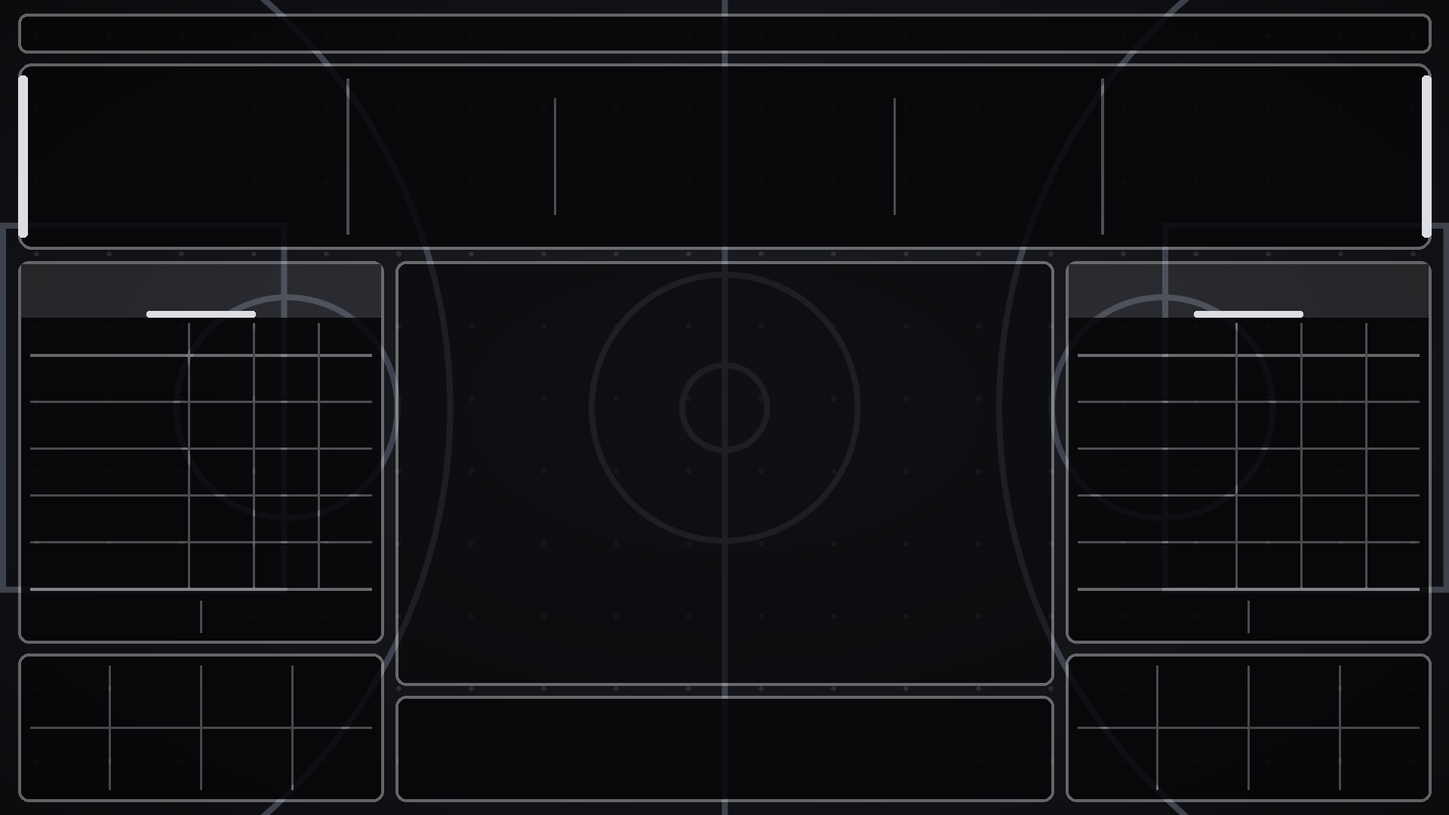
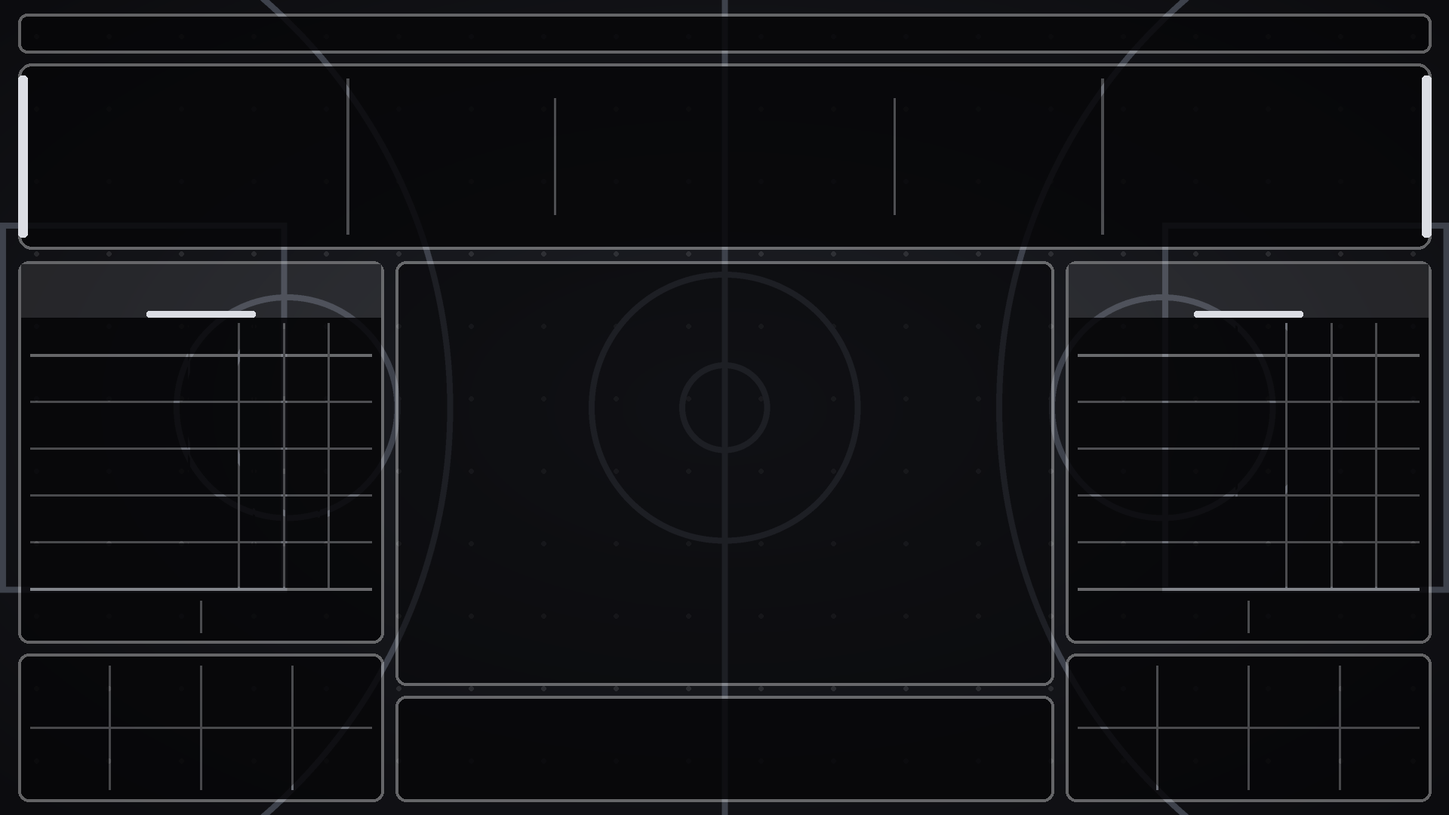
Tiempos fuera por liga, nombres completos en pantalla y plantilla ajustada
- Duración de tiempo fuera seleccionable (15/30/60/75/90 s u otra en Ajustes; ms por API)
- Botones -/+ de tiempos disponibles en la vista de Jugada
- Recarga automática de tiempos: inicio, 3er periodo y cada OT (FIBA 2/3/1, NBA 7/0/2)
- Faltas del jugador en un indicador fijo junto al nombre
- Columnas PTS/REB/AST más estrechas y letra que se ajusta para ver el nombre completo
- Plantilla LED con las líneas de la tabla en las nuevas columnas
- Rótulo de anotación (popup) oculto en el panel

diff --git a/display.html b/display.html
@@ -62,15 +62,23 @@
   td{height:62px;border:2px solid #1b4bff;text-align:center;font-size:40px;font-variant-numeric:tabular-nums}
   td.nm{text-align:left;padding-left:10px;font-size:28px;white-space:nowrap;overflow:hidden}
   td.pn{line-height:1;padding:0}
-  td.pn b{display:block;font-size:34px;line-height:36px}
-  td.pn i{display:block;font-style:normal;font-size:16px;line-height:18px;letter-spacing:1px;color:#9db4ff}
-  td.nm sup{font-size:20px;margin-left:5px;opacity:.85;vertical-align:top;position:relative;top:6px}
+  td.pn b{display:block;font-size:30px;line-height:34px}
+  td.pn i{display:block;font-style:normal;font-size:14px;line-height:16px;letter-spacing:0;color:#9db4ff}
+  /* nombre + faltas: el número de faltas tiene su espacio fijo a la derecha; si el nombre es largo se recorta con "…" */
+  td.nm{padding-right:6px}
+  td.nm .nmw{display:flex;align-items:center;gap:6px;min-width:0}
+  td.nm .nmt{flex:1;min-width:0;overflow:hidden;text-overflow:ellipsis;white-space:nowrap}
+  td.nm .nmt.wrap{white-space:normal;text-overflow:clip;line-height:1.02;overflow-wrap:anywhere}
+  td.nm .pf{flex:none;min-width:26px;height:26px;line-height:26px;padding:0 5px;border-radius:13px;font-size:19px;text-align:center;
+    background:rgba(255,255,255,.18);color:#fff;font-variant-numeric:tabular-nums}
+  td.nm.pfw .pf{background:#ffd400;color:#000}
+  td.nm.pfx .pf{background:#ff3b30;color:#fff}
   td.pfw{color:#ffd400}
   td.pfx{color:#ff3b30}
-  /* columnas de la plantilla: #+jugador 210px, PTS 86, REB 86, AST 71 */
-  th.nm{width:33.4%}
-  th.pn{width:13%}
-  th.c{width:19%}
+  /* columnas: # 10%, PTS/REB/AST 13% cada una, el nombre se queda con el resto (~51%) */
+  th.pn{width:10%}
+  th.c{width:13%;font-size:22px}
+  td.c{font-size:34px}
   .foot{display:grid;grid-template-columns:1fr 1fr;flex:1;min-height:0;border-top:3px solid #fff}
   .foot div{display:flex;align-items:center;justify-content:center;gap:16px;font-size:36px}
   .foot div.bonus{background:#c8102e;animation:bn 1s steps(2) infinite}
@@ -161,14 +169,14 @@ function panel(t) {
   if (set.sortByPts !== false) on.sort((a, b) => b.pts - a.pts);   // orden estable: con los mismos puntos conserva el orden de la plantilla
   while (on.length < 5) on.push(null);
   const rows = on.map((p) => {
-    if (!p) return '<tr><td class="pn"></td><td class="nm"></td><td></td><td></td><td></td></tr>';
+    if (!p) return '<tr><td class="pn"></td><td class="nm"></td><td class="c"></td><td class="c"></td><td class="c"></td></tr>';
     const cls = p.pf >= lim ? 'pfx' : (p.pf > 0 && p.pf >= lim - 1 ? 'pfw' : '');
-    const sup = p.pf > 0 ? `<sup>${p.pf}</sup>` : '';
-    return `<tr><td class="pn ${cls}"><b>${esc(p.n || '')}</b><i>${esc(p.pos || '')}</i></td><td class="nm ${cls}">${esc(p.name)}${sup}</td><td>${p.pts}</td><td>${p.reb}</td><td>${p.ast}</td></tr>`;
+    const pf = p.pf > 0 ? `<span class="pf">${p.pf}</span>` : '';
+    return `<tr><td class="pn ${cls}"><b>${esc(p.n || '')}</b><i>${esc(p.pos || '')}</i></td><td class="nm ${cls}"><div class="nmw"><span class="nmt">${esc(p.name)}</span>${pf}</div></td><td class="c">${p.pts}</td><td class="c">${p.reb}</td><td class="c">${p.ast}</td></tr>`;
   }).join('');
   const bonus = t.fouls >= (set.foulBonus || 4);
   return `<h2>${esc(t.name)}</h2>
-    <table><tr><th class="pn">#</th><th class="nm">JUGADOR</th><th class="c">PTS</th><th class="c">REB</th><th>AST</th></tr>${rows}</table>
+    <table><tr><th class="pn">#</th><th class="nm">JUGADOR</th><th class="c">PTS</th><th class="c">REB</th><th class="c">AST</th></tr>${rows}</table>
     <div class="foot"><div class="${bonus ? 'bonus' : ''}">${bonus ? 'BONUS' : 'FALTAS'} <b>${t.fouls}</b></div><div>TIEMPOS <b>${t.timeouts}</b></div></div>`;
 }
 
@@ -231,6 +239,23 @@ function qsHTML(k) {
   return h;
 }
 
+// ---- nombres completos: la letra se achica hasta que el nombre cabe; si no cabe en una línea, pasa a dos ----
+function fitNames() {
+  for (const el of document.querySelectorAll('td.nm .nmt')) {
+    el.classList.remove('wrap');
+    let size = 28; el.style.fontSize = size + 'px';
+    while (el.scrollWidth > el.clientWidth && size > 18) el.style.fontSize = --size + 'px';
+    if (el.scrollWidth <= el.clientWidth) continue;
+    el.classList.add('wrap');                      // dos líneas dentro de la fila de 62 px
+    size = 24; el.style.fontSize = size + 'px';
+    while ((el.scrollHeight > 56 || el.scrollWidth > el.clientWidth) && size > 14) el.style.fontSize = --size + 'px';
+  }
+  for (const h of document.querySelectorAll('.panel h2')) {   // nombre del equipo en la cabecera del panel
+    let size = 56; h.style.fontSize = size + 'px';
+    while (h.scrollWidth > h.clientWidth && size > 28) h.style.fontSize = --size + 'px';
+  }
+}
+
 const LAYER = new URLSearchParams(location.search).get('layer') || '';   // '' | base | stats
 function render() {
   if (!S) return;
@@ -255,6 +280,7 @@ function render() {
   $('hqs').innerHTML = qsHTML('home'); $('aqs').innerHTML = qsHTML('away');
   $('hpanel').innerHTML = panel(S.teams.home); $('apanel').innerHTML = panel(S.teams.away);
   bottomBox($('hnote'), S.teams.home); bottomBox($('anote'), S.teams.away);
+  fitNames();
   $('phome').classList.toggle('on', S.possession === 'home');
   $('paway').classList.toggle('on', S.possession === 'away');
   $('period').textContent = S.timer.kind ? S.timer.label : S.final ? 'FINAL' : label;

diff --git a/scoreboard/public/display.html b/scoreboard/public/display.html
@@ -62,15 +62,23 @@
   td{height:62px;border:2px solid #1b4bff;text-align:center;font-size:40px;font-variant-numeric:tabular-nums}
   td.nm{text-align:left;padding-left:10px;font-size:28px;white-space:nowrap;overflow:hidden}
   td.pn{line-height:1;padding:0}
-  td.pn b{display:block;font-size:34px;line-height:36px}
-  td.pn i{display:block;font-style:normal;font-size:16px;line-height:18px;letter-spacing:1px;color:#9db4ff}
-  td.nm sup{font-size:20px;margin-left:5px;opacity:.85;vertical-align:top;position:relative;top:6px}
+  td.pn b{display:block;font-size:30px;line-height:34px}
+  td.pn i{display:block;font-style:normal;font-size:14px;line-height:16px;letter-spacing:0;color:#9db4ff}
+  /* nombre + faltas: el número de faltas tiene su espacio fijo a la derecha; si el nombre es largo se recorta con "…" */
+  td.nm{padding-right:6px}
+  td.nm .nmw{display:flex;align-items:center;gap:6px;min-width:0}
+  td.nm .nmt{flex:1;min-width:0;overflow:hidden;text-overflow:ellipsis;white-space:nowrap}
+  td.nm .nmt.wrap{white-space:normal;text-overflow:clip;line-height:1.02;overflow-wrap:anywhere}
+  td.nm .pf{flex:none;min-width:26px;height:26px;line-height:26px;padding:0 5px;border-radius:13px;font-size:19px;text-align:center;
+    background:rgba(255,255,255,.18);color:#fff;font-variant-numeric:tabular-nums}
+  td.nm.pfw .pf{background:#ffd400;color:#000}
+  td.nm.pfx .pf{background:#ff3b30;color:#fff}
   td.pfw{color:#ffd400}
   td.pfx{color:#ff3b30}
-  /* columnas de la plantilla: #+jugador 210px, PTS 86, REB 86, AST 71 */
-  th.nm{width:33.4%}
-  th.pn{width:13%}
-  th.c{width:19%}
+  /* columnas: # 10%, PTS/REB/AST 13% cada una, el nombre se queda con el resto (~51%) */
+  th.pn{width:10%}
+  th.c{width:13%;font-size:22px}
+  td.c{font-size:34px}
   .foot{display:grid;grid-template-columns:1fr 1fr;flex:1;min-height:0;border-top:3px solid #fff}
   .foot div{display:flex;align-items:center;justify-content:center;gap:16px;font-size:36px}
   .foot div.bonus{background:#c8102e;animation:bn 1s steps(2) infinite}
@@ -161,14 +169,14 @@ function panel(t) {
   if (set.sortByPts !== false) on.sort((a, b) => b.pts - a.pts);   // orden estable: con los mismos puntos conserva el orden de la plantilla
   while (on.length < 5) on.push(null);
   const rows = on.map((p) => {
-    if (!p) return '<tr><td class="pn"></td><td class="nm"></td><td></td><td></td><td></td></tr>';
+    if (!p) return '<tr><td class="pn"></td><td class="nm"></td><td class="c"></td><td class="c"></td><td class="c"></td></tr>';
     const cls = p.pf >= lim ? 'pfx' : (p.pf > 0 && p.pf >= lim - 1 ? 'pfw' : '');
-    const sup = p.pf > 0 ? `<sup>${p.pf}</sup>` : '';
-    return `<tr><td class="pn ${cls}"><b>${esc(p.n || '')}</b><i>${esc(p.pos || '')}</i></td><td class="nm ${cls}">${esc(p.name)}${sup}</td><td>${p.pts}</td><td>${p.reb}</td><td>${p.ast}</td></tr>`;
+    const pf = p.pf > 0 ? `<span class="pf">${p.pf}</span>` : '';
+    return `<tr><td class="pn ${cls}"><b>${esc(p.n || '')}</b><i>${esc(p.pos || '')}</i></td><td class="nm ${cls}"><div class="nmw"><span class="nmt">${esc(p.name)}</span>${pf}</div></td><td class="c">${p.pts}</td><td class="c">${p.reb}</td><td class="c">${p.ast}</td></tr>`;
   }).join('');
   const bonus = t.fouls >= (set.foulBonus || 4);
   return `<h2>${esc(t.name)}</h2>
-    <table><tr><th class="pn">#</th><th class="nm">JUGADOR</th><th class="c">PTS</th><th class="c">REB</th><th>AST</th></tr>${rows}</table>
+    <table><tr><th class="pn">#</th><th class="nm">JUGADOR</th><th class="c">PTS</th><th class="c">REB</th><th class="c">AST</th></tr>${rows}</table>
     <div class="foot"><div class="${bonus ? 'bonus' : ''}">${bonus ? 'BONUS' : 'FALTAS'} <b>${t.fouls}</b></div><div>TIEMPOS <b>${t.timeouts}</b></div></div>`;
 }
 
@@ -231,6 +239,23 @@ function qsHTML(k) {
   return h;
 }
 
+// ---- nombres completos: la letra se achica hasta que el nombre cabe; si no cabe en una línea, pasa a dos ----
+function fitNames() {
+  for (const el of document.querySelectorAll('td.nm .nmt')) {
+    el.classList.remove('wrap');
+    let size = 28; el.style.fontSize = size + 'px';
+    while (el.scrollWidth > el.clientWidth && size > 18) el.style.fontSize = --size + 'px';
+    if (el.scrollWidth <= el.clientWidth) continue;
+    el.classList.add('wrap');                      // dos líneas dentro de la fila de 62 px
+    size = 24; el.style.fontSize = size + 'px';
+    while ((el.scrollHeight > 56 || el.scrollWidth > el.clientWidth) && size > 14) el.style.fontSize = --size + 'px';
+  }
+  for (const h of document.querySelectorAll('.panel h2')) {   // nombre del equipo en la cabecera del panel
+    let size = 56; h.style.fontSize = size + 'px';
+    while (h.scrollWidth > h.clientWidth && size > 28) h.style.fontSize = --size + 'px';
+  }
+}
+
 const LAYER = new URLSearchParams(location.search).get('layer') || '';   // '' | base | stats
 function render() {
   if (!S) return;
@@ -255,6 +280,7 @@ function render() {
   $('hqs').innerHTML = qsHTML('home'); $('aqs').innerHTML = qsHTML('away');
   $('hpanel').innerHTML = panel(S.teams.home); $('apanel').innerHTML = panel(S.teams.away);
   bottomBox($('hnote'), S.teams.home); bottomBox($('anote'), S.teams.away);
+  fitNames();
   $('phome').classList.toggle('on', S.possession === 'home');
   $('paway').classList.toggle('on', S.possession === 'away');
   $('period').textContent = S.timer.kind ? S.timer.label : S.final ? 'FINAL' : label;

diff --git a/control.html b/control.html
@@ -83,7 +83,16 @@
   <div class="row" style="margin-top:8px">
     <span>Tiempo fuera:</span>
     <button class="big" data-c='{"a":"timeoutStart","team":"home"}'>Local (<b data-bind="teams.home.timeouts"></b>)</button>
+    <button class="sm" title="Quitar un tiempo al local" data-c='{"a":"inc","path":"teams.home.timeouts","by":-1}'>−</button>
+    <button class="sm" title="Devolver un tiempo al local" data-c='{"a":"inc","path":"teams.home.timeouts","by":1}'>+</button>
     <button class="big" data-c='{"a":"timeoutStart","team":"away"}'>Visitante (<b data-bind="teams.away.timeouts"></b>)</button>
+    <button class="sm" title="Quitar un tiempo al visitante" data-c='{"a":"inc","path":"teams.away.timeouts","by":-1}'>−</button>
+    <button class="sm" title="Devolver un tiempo al visitante" data-c='{"a":"inc","path":"teams.away.timeouts","by":1}'>+</button>
+    <label style="margin:0">Duración
+      <select data-path="settings.timeoutMs" data-type="sec" title="Duración del próximo tiempo fuera">
+        <option value="15">15 s</option><option value="30">30 s</option><option value="60">60 s</option><option value="75">75 s</option><option value="90">90 s</option>
+      </select>
+    </label>
     <span style="margin-left:12px">Descanso:</span>
     <button data-c='{"a":"breakStart","kind":"q"}'>Entre periodos</button>
     <button data-c='{"a":"breakStart","kind":"half"}'>Medio tiempo</button>
@@ -110,7 +119,8 @@
   </div>
 </section>
 
-<section class="wide" data-rol="jugada">
+<!-- rótulo de anotación oculto (no se usa); para volver a mostrarlo quita "hidden" y data-off -->
+<section class="wide" data-rol="jugada" data-off hidden>
   <h3>Rótulo de anotación (popup.html)</h3>
   <div class="row">
     <div style="width:90px"><label>Texto grande</label><input type="text" id="p1" value="+3"></div>
@@ -172,7 +182,9 @@
     <div><label>Tiempo fuera (segundos)</label><input type="number" data-path="settings.timeoutMs" data-type="sec"></div>
     <div><label>Descanso entre periodos (min)</label><input type="number" data-path="settings.breakMs" data-type="min"></div>
     <div><label>Medio tiempo (min)</label><input type="number" data-path="settings.halfMs" data-type="min"></div>
-    <div><label>Duración del rótulo (seg)</label><input type="number" data-path="settings.popupMs" data-type="sec"></div>
+    <div><label>Tiempos fuera al empezar el juego (FIBA 2, NBA 7)</label><input type="number" min="1" data-path="settings.toFirst" data-type="int"></div>
+    <div><label>Tiempos fuera al empezar el 3er periodo (FIBA 3, NBA 0 = siguen los que queden)</label><input type="number" min="0" data-path="settings.toSecond" data-type="int"></div>
+    <div><label>Tiempos fuera en cada tiempo extra (FIBA 1, NBA 2)</label><input type="number" min="0" data-path="settings.toOT" data-type="int"></div>
   </div>
   <div class="row" style="margin-top:6px">
     <label style="margin:0"><input type="checkbox" data-path="settings.linkShot" data-type="bool"> 24s ligado al reloj del juego</label>
@@ -348,7 +360,11 @@ function paint() {
     const v = get(el.dataset.path); const ty = el.dataset.type;
     if (ty === 'bool') el.checked = !!v;
     else if (ty === 'min') el.value = v / 60000;
-    else if (ty === 'sec') el.value = v / 1000;
+    else if (ty === 'sec') {
+      // en un selector, si el valor es personalizado (p. ej. 45 s desde Ajustes) se agrega como opción
+      if (el.tagName === 'SELECT' && ![...el.options].some((o) => +o.value === v / 1000)) el.add(new Option(v / 1000 + ' s', v / 1000));
+      el.value = v / 1000;
+    }
     else el.value = v ?? '';
   });
   $('#plabel').textContent = S.final ? 'FINAL' : label;

diff --git a/scoreboard/public/control.html b/scoreboard/public/control.html
@@ -83,7 +83,16 @@
   <div class="row" style="margin-top:8px">
     <span>Tiempo fuera:</span>
     <button class="big" data-c='{"a":"timeoutStart","team":"home"}'>Local (<b data-bind="teams.home.timeouts"></b>)</button>
+    <button class="sm" title="Quitar un tiempo al local" data-c='{"a":"inc","path":"teams.home.timeouts","by":-1}'>−</button>
+    <button class="sm" title="Devolver un tiempo al local" data-c='{"a":"inc","path":"teams.home.timeouts","by":1}'>+</button>
     <button class="big" data-c='{"a":"timeoutStart","team":"away"}'>Visitante (<b data-bind="teams.away.timeouts"></b>)</button>
+    <button class="sm" title="Quitar un tiempo al visitante" data-c='{"a":"inc","path":"teams.away.timeouts","by":-1}'>−</button>
+    <button class="sm" title="Devolver un tiempo al visitante" data-c='{"a":"inc","path":"teams.away.timeouts","by":1}'>+</button>
+    <label style="margin:0">Duración
+      <select data-path="settings.timeoutMs" data-type="sec" title="Duración del próximo tiempo fuera">
+        <option value="15">15 s</option><option value="30">30 s</option><option value="60">60 s</option><option value="75">75 s</option><option value="90">90 s</option>
+      </select>
+    </label>
     <span style="margin-left:12px">Descanso:</span>
     <button data-c='{"a":"breakStart","kind":"q"}'>Entre periodos</button>
     <button data-c='{"a":"breakStart","kind":"half"}'>Medio tiempo</button>
@@ -110,7 +119,8 @@
   </div>
 </section>
 
-<section class="wide" data-rol="jugada">
+<!-- rótulo de anotación oculto (no se usa); para volver a mostrarlo quita "hidden" y data-off -->
+<section class="wide" data-rol="jugada" data-off hidden>
   <h3>Rótulo de anotación (popup.html)</h3>
   <div class="row">
     <div style="width:90px"><label>Texto grande</label><input type="text" id="p1" value="+3"></div>
@@ -172,7 +182,9 @@
     <div><label>Tiempo fuera (segundos)</label><input type="number" data-path="settings.timeoutMs" data-type="sec"></div>
     <div><label>Descanso entre periodos (min)</label><input type="number" data-path="settings.breakMs" data-type="min"></div>
     <div><label>Medio tiempo (min)</label><input type="number" data-path="settings.halfMs" data-type="min"></div>
-    <div><label>Duración del rótulo (seg)</label><input type="number" data-path="settings.popupMs" data-type="sec"></div>
+    <div><label>Tiempos fuera al empezar el juego (FIBA 2, NBA 7)</label><input type="number" min="1" data-path="settings.toFirst" data-type="int"></div>
+    <div><label>Tiempos fuera al empezar el 3er periodo (FIBA 3, NBA 0 = siguen los que queden)</label><input type="number" min="0" data-path="settings.toSecond" data-type="int"></div>
+    <div><label>Tiempos fuera en cada tiempo extra (FIBA 1, NBA 2)</label><input type="number" min="0" data-path="settings.toOT" data-type="int"></div>
   </div>
   <div class="row" style="margin-top:6px">
     <label style="margin:0"><input type="checkbox" data-path="settings.linkShot" data-type="bool"> 24s ligado al reloj del juego</label>
@@ -348,7 +360,11 @@ function paint() {
     const v = get(el.dataset.path); const ty = el.dataset.type;
     if (ty === 'bool') el.checked = !!v;
     else if (ty === 'min') el.value = v / 60000;
-    else if (ty === 'sec') el.value = v / 1000;
+    else if (ty === 'sec') {
+      // en un selector, si el valor es personalizado (p. ej. 45 s desde Ajustes) se agrega como opción
+      if (el.tagName === 'SELECT' && ![...el.options].some((o) => +o.value === v / 1000)) el.add(new Option(v / 1000 + ' s', v / 1000));
+      el.value = v / 1000;
+    }
     else el.value = v ?? '';
   });
   $('#plabel').textContent = S.final ? 'FINAL' : label;

diff --git a/scoreboard/server.js b/scoreboard/server.js
@@ -63,6 +63,10 @@ function defaults() {
       otFoulsCarry: false,  // true = en tiempo extra siguen las faltas del 4to (regla FIBA); false = cada periodo empieza en 0
       foulOut: 5,           // faltas personales para eliminar al jugador (FIBA = 5, NBA = 6)
       timeoutMs: 60000,     // tiempo fuera (FIBA = 60 s)
+      // tiempos fuera disponibles por equipo (se recargan solos). FIBA: 2 / 3 / 1.  NBA: 7 / 0 / 2
+      toFirst: 2,           // al empezar el juego (1ra mitad)
+      toSecond: 3,          // al empezar el 3er periodo (0 = siguen los que queden)
+      toOT: 1,              // al empezar cada tiempo extra (0 = siguen los que queden)
       breakMs: 120000,      // descanso entre periodos
       halfMs: 900000,       // medio tiempo
       popupAuto: false,     // lanzar rótulo automáticamente al anotar
@@ -146,6 +150,11 @@ function startClocks() {
 function stopClocks() {
   S.game.running = false;
   if (S.settings.linkShot) S.shot.running = false;
+}
+// juego nuevo: cada equipo empieza con los tiempos de la 1ra mitad
+function resetTimeouts() {
+  const n = S.settings.toFirst > 0 ? S.settings.toFirst : 2;
+  S.teams.home.timeouts = n; S.teams.away.timeouts = n;
 }
 function startTimer(kind, label, tm, ms) {
   S.timer = { kind, label, team: tm, ms, total: ms, running: true, done: false };
@@ -247,7 +256,8 @@ function run(c) {
       const t = S.teams[c.team];
       if (!t || t.timeouts <= 0) return false;
       t.timeouts -= 1; stopClocks();
-      startTimer('timeout', 'TIEMPO FUERA', c.team, S.settings.timeoutMs);
+      // duración: la del comando (ms, para Stream Deck) o la elegida en el panel (15/30/60/75/90 s u otra)
+      startTimer('timeout', 'TIEMPO FUERA', c.team, num(c.ms) > 0 ? num(c.ms) : S.settings.timeoutMs);
       log(`Tiempo fuera ${abbr(c.team)}`, c.team);
       break;
     }
@@ -270,6 +280,9 @@ function run(c) {
       S.shot.ms = 24000; S.game.running = false; S.shot.running = false;
       // faltas de equipo (y BONUS) a 0 en cada periodo nuevo; opcional FIBA: en el OT siguen las del 4to
       if (S.period <= 4 || !S.settings.otFoulsCarry) { S.teams.home.fouls = 0; S.teams.away.fouls = 0; }
+      // tiempos fuera: recarga al empezar la 2da mitad y cada tiempo extra
+      { const n = S.period === 3 ? S.settings.toSecond : S.period > 4 ? S.settings.toOT : 0;
+        if (n > 0) { S.teams.home.timeouts = n; S.teams.away.timeouts = n; } }
       ensurePeriods(); undoStack.length = 0;
       log(`Inicio ${periodLabel(S.period)}`);
       break;
@@ -285,9 +298,9 @@ function run(c) {
         store.updateGame(gameId, {
           home: S.teams.home.name, away: S.teams.away.name, hs: S.teams.home.score, aw: S.teams.away.score, ended: Date.now(), final: S,
         });
-        const keep = S.settings; S = defaults(); S.settings = keep; S.game.ms = keep.periodMs;
+        const keep = S.settings; S = defaults(); S.settings = keep; S.game.ms = keep.periodMs; resetTimeouts();
         gameId = store.newGame({ home: S.teams.home.name, away: S.teams.away.name });
-      } else { const keep = S.settings; S = defaults(); S.settings = keep; S.game.ms = keep.periodMs; }
+      } else { const keep = S.settings; S = defaults(); S.settings = keep; S.game.ms = keep.periodMs; resetTimeouts(); }
       events = []; undoStack.length = 0;
       break;
     }

diff --git a/server.js b/server.js
@@ -63,6 +63,10 @@ function defaults() {
       otFoulsCarry: false,  // true = en tiempo extra siguen las faltas del 4to (regla FIBA); false = cada periodo empieza en 0
       foulOut: 5,           // faltas personales para eliminar al jugador (FIBA = 5, NBA = 6)
       timeoutMs: 60000,     // tiempo fuera (FIBA = 60 s)
+      // tiempos fuera disponibles por equipo (se recargan solos). FIBA: 2 / 3 / 1.  NBA: 7 / 0 / 2
+      toFirst: 2,           // al empezar el juego (1ra mitad)
+      toSecond: 3,          // al empezar el 3er periodo (0 = siguen los que queden)
+      toOT: 1,              // al empezar cada tiempo extra (0 = siguen los que queden)
       breakMs: 120000,      // descanso entre periodos
       halfMs: 900000,       // medio tiempo
       popupAuto: false,     // lanzar rótulo automáticamente al anotar
@@ -146,6 +150,11 @@ function startClocks() {
 function stopClocks() {
   S.game.running = false;
   if (S.settings.linkShot) S.shot.running = false;
+}
+// juego nuevo: cada equipo empieza con los tiempos de la 1ra mitad
+function resetTimeouts() {
+  const n = S.settings.toFirst > 0 ? S.settings.toFirst : 2;
+  S.teams.home.timeouts = n; S.teams.away.timeouts = n;
 }
 function startTimer(kind, label, tm, ms) {
   S.timer = { kind, label, team: tm, ms, total: ms, running: true, done: false };
@@ -247,7 +256,8 @@ function run(c) {
       const t = S.teams[c.team];
       if (!t || t.timeouts <= 0) return false;
       t.timeouts -= 1; stopClocks();
-      startTimer('timeout', 'TIEMPO FUERA', c.team, S.settings.timeoutMs);
+      // duración: la del comando (ms, para Stream Deck) o la elegida en el panel (15/30/60/75/90 s u otra)
+      startTimer('timeout', 'TIEMPO FUERA', c.team, num(c.ms) > 0 ? num(c.ms) : S.settings.timeoutMs);
       log(`Tiempo fuera ${abbr(c.team)}`, c.team);
       break;
     }
@@ -270,6 +280,9 @@ function run(c) {
       S.shot.ms = 24000; S.game.running = false; S.shot.running = false;
       // faltas de equipo (y BONUS) a 0 en cada periodo nuevo; opcional FIBA: en el OT siguen las del 4to
       if (S.period <= 4 || !S.settings.otFoulsCarry) { S.teams.home.fouls = 0; S.teams.away.fouls = 0; }
+      // tiempos fuera: recarga al empezar la 2da mitad y cada tiempo extra
+      { const n = S.period === 3 ? S.settings.toSecond : S.period > 4 ? S.settings.toOT : 0;
+        if (n > 0) { S.teams.home.timeouts = n; S.teams.away.timeouts = n; } }
       ensurePeriods(); undoStack.length = 0;
       log(`Inicio ${periodLabel(S.period)}`);
       break;
@@ -285,9 +298,9 @@ function run(c) {
         store.updateGame(gameId, {
           home: S.teams.home.name, away: S.teams.away.name, hs: S.teams.home.score, aw: S.teams.away.score, ended: Date.now(), final: S,
         });
-        const keep = S.settings; S = defaults(); S.settings = keep; S.game.ms = keep.periodMs;
+        const keep = S.settings; S = defaults(); S.settings = keep; S.game.ms = keep.periodMs; resetTimeouts();
         gameId = store.newGame({ home: S.teams.home.name, away: S.teams.away.name });
-      } else { const keep = S.settings; S = defaults(); S.settings = keep; S.game.ms = keep.periodMs; }
+      } else { const keep = S.settings; S = defaults(); S.settings = keep; S.game.ms = keep.periodMs; resetTimeouts(); }
       events = []; undoStack.length = 0;
       break;
     }

diff --git a/README.md b/README.md
@@ -41,7 +41,8 @@ Si la otra PC no conecta: abre el puerto 8080 en el firewall de Windows y verifi
 - **Relojes:** juego y 24 s con atajos (`Espacio`, `1`=24, `2`=14, `S`=parar 24). El servidor lleva el tiempo, así control y pantalla siempre coinciden. **El reloj de 24 se apaga solo** cuando al juego le quedan menos de 24 s (se oculta en pantalla, deja de contar y no suena la violación); se cambia en Ajustes (*Apagar 24 con menos de … s*, 0 = nunca).
 - **Contorno rojo:** al llegar a 0 el reloj del juego, los 24 s o un cronómetro, se enciende un contorno rojo alrededor de todo el diseño (como las luces del tablero en la NBA) durante 4 s. El botón *Probar contorno rojo* lo dispara a mano.
 - **Posesión:** flechas junto al reloj (`P` alterna).
-- **Tiempo fuera:** botón por equipo; descuenta el tiempo, para los relojes y muestra la cuenta regresiva de 60 s en el mismo reloj grande del juego (en amarillo, rojo en los últimos 10 s), con "TIEMPO FUERA" y el equipo en lugar del periodo y los 24 s; el centro de la pantalla no se toca. También descansos y medio tiempo. *Cancelar y devolver* restaura el tiempo fuera si se tocó por error.
+- **Tiempos fuera disponibles:** junto a cada botón hay **−/+** para corregir. Se recargan solos según la liga (Ajustes): al empezar el juego, al empezar el 3er periodo y en cada tiempo extra (FIBA 2/3/1, NBA 7/0/2; 0 = siguen los que queden).
+- **Tiempo fuera:** botón por equipo; descuenta el tiempo, para los relojes y muestra la cuenta regresiva de 60 s en el mismo reloj grande del juego (en amarillo, rojo en los últimos 10 s), con "TIEMPO FUERA" y el equipo en lugar del periodo y los 24 s; el centro de la pantalla no se toca. La **duración** se elige junto a los botones (15, 30, 60, 75 o 90 s) o se escribe otra en Ajustes; por API: `/api/cmd?a=timeoutStart&team=home&ms=30000`. También descansos y medio tiempo. *Cancelar y devolver* restaura el tiempo fuera si se tocó por error.
 - **Faltas y bonus:** en Ajustes pones con cuántas faltas de equipo en el periodo se enciende **BONUS** en rojo (FIBA 4, NBA 5). Al pasar al siguiente periodo las faltas de equipo vuelven a 0 y el BONUS se apaga, también en tiempo extra (si prefieres la regla FIBA de seguir con las faltas del 4to en el OT, marca *En tiempo extra seguir las faltas del 4to*). El jugador se marca en amarillo a una falta de eliminarse y en rojo al eliminarse (FIBA 5, NBA 6, se cambia en Ajustes).
 - **Orden de jugadores:** en la pantalla los 5 en cancha se ordenan de mayor a menor puntos (con igual puntaje, el orden de la plantilla). Un jugador que entra por sustitución queda según sus puntos, no abajo. Se apaga en Ajustes.
 - **Marcador por periodo** (Q1, Q2, Q3, Q4, OT) bajo cada marcador.
@@ -92,7 +93,8 @@ El borde blanco de 3 px de cada caja está dentro de esas medidas.
 ## Resumen del juego en PDF
 Botón **Ver PDF del juego actual** en el control, o `http://IP:8080/report.pdf`. Incluye marcador, puntos por periodo, comparativa de equipos, líderes, estadísticas por jugador y jugada a jugada. Los juegos terminados quedan en el **Historial** con su PDF (`/report.pdf?game=1`).
 
-## Rótulos de anotación (para Resolume)
+## Rótulos de anotación (para Resolume) — oculto en el panel
+La sección está oculta en el panel porque no se usa; `popup.html` y la API siguen funcionando. Para mostrarla, en `control.html` quita `hidden` de la sección *Rótulo de anotación*.
 `popup.html` es una página con fondo transparente que anima un rótulo (ej. "+3 G. TORRES") y lo oculta sola.
 
 - **Cómo dispararlo:** botón *Lanzar rótulo* del control, automático al anotar (casilla en el control), o por HTTP: `/api/cmd?a=popup&l1=%2B3&l2=G.%20TORRES&l3=PONCE&team=home` (sirve para Stream Deck o Companion).
